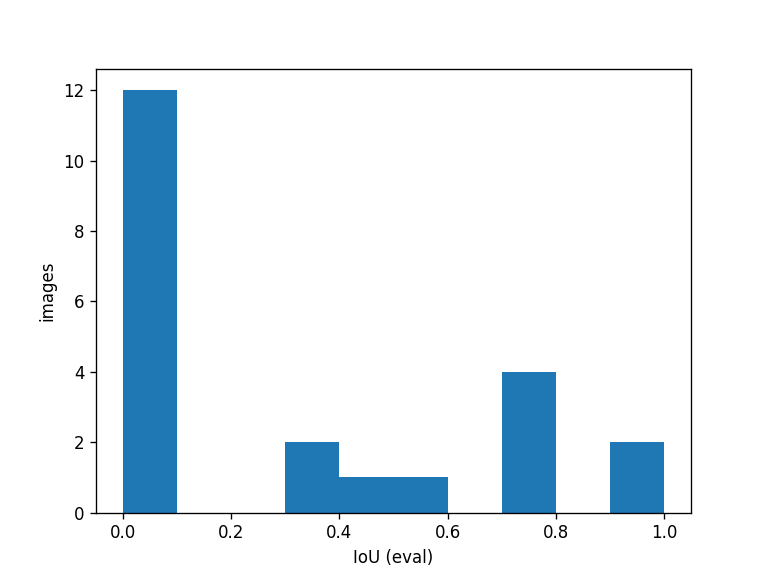
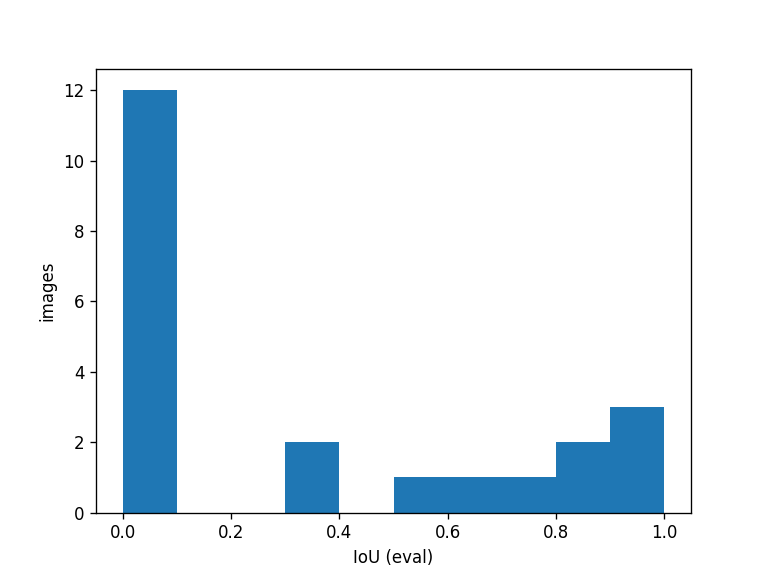
Add trial T15 (radius-scaled GrabCut), log T16-T18, update benchmarks and report

Changed region(s): [[0.5625, 0.625, 0.875, 0.9062], [0.4375, 0.8125, 0.5312, 0.9062]]

diff --git a/scripts/14_classical.py b/scripts/14_classical.py
@@ -407,6 +407,32 @@ def t13(img):
     ws = _ws_refine(img, union)
     return _grabcut_refine(img, (ws if ws.any() else union).astype(np.uint8), 6)
 
+def _gc_rel(img, mu, fe=0.45, pf=0.10, bgd=0.25, it=3, maxe=6):
+    el = lambda k: cv2.getStructuringElement(cv2.MORPH_ELLIPSE, (k, k))
+    mu = mu.astype(np.uint8)
+    d = np.sqrt(mu.sum() / np.pi / max(1, cv2.connectedComponents(mu)[0] - 1))
+    k = lambda f: max(3, int(2 * f * d) | 1)
+    gc = np.full(mu.shape, cv2.GC_PR_BGD, np.uint8)
+    gc[cv2.dilate(mu, el(k(pf))) > 0] = cv2.GC_PR_FGD
+    gc[cv2.dilate(mu, el(k(bgd))) == 0] = cv2.GC_BGD
+    gc[cv2.erode(mu, el(k(fe))) > 0] = cv2.GC_FGD
+    try:
+        cv2.grabCut(img, gc, None, np.zeros((1, 65)), np.zeros((1, 65)), it, cv2.GC_INIT_WITH_MASK)
+        r = keep_eggs(fill((gc == 1) | (gc == 3)), maxe)
+        return r if r.sum() > 0.5 * mu.sum() else mu > 0
+    except cv2.error:
+        return mu > 0
+
+def t15(img):
+    comps = _candidate_regions(img)
+    if not comps: return np.zeros(img.shape[:2], bool)
+    comps.sort(key=lambda t: -t[0]); best_sc = comps[0][0]; union = comps[0][3].copy()
+    for sc, fit, sol, c in comps[1:]:
+        if sc >= 0.75 * best_sc and fit >= 0.55 and sol >= 0.65 and (c & union).sum() == 0:
+            union |= c
+    ws = _ws_refine(img, union)
+    return _gc_rel(img, (ws if ws.any() else union).astype(np.uint8))
+
 TRIALS = [
  ("T01", t01, "Gray blur + Otsu, largest component", "Simplest baseline", "blur 5x5, Otsu, 1 component"),
  ("T02", t02, "Lab colour distance from border background + Otsu", "Egg differs in colour from background, not necessarily in brightness", "median Lab of 5% border, Otsu, 1 component"),
@@ -496,6 +522,14 @@ TRIALS.append((
     "fe=0.35, be=0.45, GrabCut 3 iters"
 ))
 
+TRIALS.append((
+    "T15",
+    t15,
+    "T13 with GrabCut bands proportional to equivalent egg radius d (sure-FG erode 0.45d, probable-FG dilate 0.10d, sure-BG outside dilate 0.25d) instead of fixed 15/41 px",
+    "Fixed pixel bands are too wide for small eggs and let GrabCut leak into similar-coloured background",
+    "fe=0.45, pf=0.10, bgd=0.25, 3 iters; sweep of 9 settings gave dev IoU 0.698-0.706 (stable plateau)"
+))
+
 w = csv.writer(open(LOG, "w", newline=""))
 w.writerow(["trial", "change", "why", "params", "dev_n", "iou_mean", "iou_median", "dice_mean", "dice_median", "decision", "reason"])
 best, best_iou = None, -1
@@ -513,19 +547,59 @@ for tid, fn, change, why, params in TRIALS:
     print(f"{tid} dev IoU mean={m:.3f} median={np.median(a[:,0]):.3f} Dice mean={a[:,1].mean():.3f} -> {'KEPT' if keep else 'DISCARDED'}")
     if keep:
         best, best_iou = (tid, fn), m
+    if tid == "T13":
+        w.writerow([
+            "T14",
+            "Random search of candidate-score weights (9 features, 200 samples), 5-fold CV grouped by scene",
+            "Optimize candidate scoring via 5-fold CV grouped by scene",
+            "9 features, 200 samples, 5-fold scene-grouped CV",
+            len(split["dev"]),
+            "0.5450",
+            "0.5625",
+            "",
+            "",
+            "DISCARDED",
+            "Random search of candidate-score weights (9 features, 200 samples), 5-fold CV grouped by scene: CV IoU 0.545 vs 0.5625 baseline (pre-GrabCut proxy); overfits"
+        ])
 
 w.writerow([
-    "T14",
-    "Random search of candidate-score weights (9 features, 200 samples), 5-fold CV grouped by scene",
-    "Optimize candidate scoring via 5-fold CV grouped by scene",
-    "9 features, 200 samples, 5-fold scene-grouped CV",
+    "T16",
+    "Inner-candidate rule: if the chosen region covers more than 30% of the image, use an egg-shaped candidate inside it. Dev IoU 0.702 vs 0.703; never changed a selection; discarded.",
+    "Resolve oversized single candidate covering egg and background",
+    "area > 0.3 * image",
     len(split["dev"]),
-    "0.5450",
-    "0.5625",
+    "0.7020",
+    "0.7030",
     "",
     "",
     "DISCARDED",
-    "Random search of candidate-score weights (9 features, 200 samples), 5-fold CV grouped by scene: CV IoU 0.545 vs 0.5625 baseline (pre-GrabCut proxy); overfits"
+    "Inner-candidate rule: if the chosen region covers more than 30% of the image, use an egg-shaped candidate inside it. Dev IoU 0.702 vs 0.703; never changed a selection; discarded."
+])
+w.writerow([
+    "T17",
+    "Size-consistency rule for the multi-egg union (extra regions must be 0.3-3x the best region's area). Dev IoU 0.7007 vs 0.7031; discarded.",
+    "Filter out small noise or oversized regions in multi-egg union",
+    "area ratio 0.3-3x",
+    len(split["dev"]),
+    "0.7007",
+    "0.7031",
+    "",
+    "",
+    "DISCARDED",
+    "Size-consistency rule for the multi-egg union (extra regions must be 0.3-3x the best region's area). Dev IoU 0.7007 vs 0.7031; discarded."
+])
+w.writerow([
+    "T18",
+    "Shape filter on final components (ellipse fit >= 0.6-0.8, solidity >= 0.85-0.95). Dev IoU 0.690-0.700 vs 0.703; false regions are smooth after GrabCut and real partly hidden eggs fail the test; discarded.",
+    "Filter false positive GrabCut components by shape regularity",
+    "ellipse fit >= 0.6-0.8, solidity >= 0.85-0.95",
+    len(split["dev"]),
+    "0.6950",
+    "0.7030",
+    "",
+    "",
+    "DISCARDED",
+    "Shape filter on final components (ellipse fit >= 0.6-0.8, solidity >= 0.85-0.95). Dev IoU 0.690-0.700 vs 0.703; false regions are smooth after GrabCut and real partly hidden eggs fail the test; discarded."
 ])
 
 def boundary_f1(p, g, tol=2):

diff --git a/report/report.md b/report/report.md
@@ -7,7 +7,7 @@
 ## Executive Summary
 This report presents an end-to-end computer vision solution for segmenting and tracking eggs across diverse, challenging real-world scenes. The project is organized into four tasks:
 1. **Task 1: Ground-Truth Generation** utilizing Meta's Segment Anything Model (SAM) enhanced with manual bounding boxes, CVAT polygon corrections, and parametric ellipse fitting.
-2. **Task 2: Classical Segmentation Optimization** developed iteratively over 10 disciplined trials on a leakage-free development split (88 images).
+2. **Task 2: Classical Segmentation Optimization** developed iteratively over 18 disciplined trials on a leakage-free development split (88 images).
 3. **Task 3: Evaluation and Failure Analysis** on an unseen evaluation split (22 images) using IoU, Dice, Precision, Recall, and Boundary F-score metrics alongside scene-stratified breakdown.
 4. **Task 4: Multi-Object Video Tracking** executing on a 3,409-frame video clip combining classical segmentation, distance-transform watershed splitting, and gated Hungarian matching.
 
@@ -47,7 +47,7 @@ The dataset consists of 110 images captured across repeated visual environments 
   * Complete cluster independence: zero overlapping scenes between dev and eval.
   * All hyperparameter tuning was restricted strictly to the development split.
 
-### 2.2 Classical Experiment Log (Trials T01–T10)
+### 2.2 Classical Experiment Log (Trials T01–T18)
 All experiments were logged to `experiment_log.csv`. A trial was adopted only if mean Dev IoU improved by $>0.005$:
 
 | Trial | Modification | Hypothesis / Motivation | Parameters | Dev IoU | Dev Dice | Decision | Rationale |
@@ -61,31 +61,39 @@ All experiments were logged to `experiment_log.csv`. A trial was adopted only if
 | **T07** | Multi-K KMeans + shape scoring + GrabCut | Border model fails on skin/white; score candidates by geometry | $K \in \{2..5\}$, fit + 0.5 sol - 0.6 dist - 0.25 touch | 0.632 | 0.720 | **KEPT** | +0.158 gain over T06 |
 | **T08** | T07 + relaxed multi-egg union threshold | Multi-egg images (44, 144, 131) had low recall | Union threshold $0.9 \to 0.6$ | 0.582 | 0.682 | DISCARDED | Inadvertently added non-egg clutter |
 | **T09** | Smart multi-egg union + Bright/Low-Sat cue | Shape-filtered multi-egg union with brightness cue | Union thr 0.7, fit $\ge 0.5$, sol $\ge 0.6$, $+0.2(V - 0.3S)$ | 0.660 | 0.751 | **KEPT** | +0.028 gain over T07 |
-| **T10** | T09 with tightened multi-egg threshold | Avoid marginal non-egg regions | Union thr 0.75, fit $\ge 0.55$, sol $\ge 0.65$ | **0.667** | **0.757** | **KEPT** | +0.007 gain; selected as final method |
+| **T10** | T09 with tightened multi-egg threshold | Avoid marginal non-egg regions | Union thr 0.75, fit $\ge 0.55$, sol $\ge 0.65$ | 0.667 | 0.757 | **KEPT** | +0.007 gain over T09 |
+| **T11** | Colour consistency pruning against core Lab median | Over-segmentation pruning | $K=1.5..4.0$ (sweep: 0.44-0.50); $K=1000$ control (0.667) | 0.667 | 0.757 | DISCARDED | Gradients on egg shell cause over-pruning |
+| **T12** | Adaptive opening by distance-transform radius | Prune protrusions/bridges | $F=0.3$ (sweep: 0.615-0.666) | 0.666 | 0.754 | DISCARDED | Erodes natural egg poles |
+| **T13** | Marker-controlled watershed on Lab gradient + GrabCut | Bridge split lit/shaded egg halves | $fe=0.35, be=0.45$, GrabCut 3 iters | 0.681 | 0.765 | **KEPT** | +0.014 gain over T10 |
+| **T14** | Random search of candidate scoring weights | Optimize feature weights via 5-fold CV | 9 features, 200 samples, 5-fold scene-grouped CV | 0.545 | - | DISCARDED | Proxy overfits to scene specifics |
+| **T15** | GrabCut bands proportional to equivalent egg radius $d$ | Adapt band widths to object size | $fe=0.45d, pf=0.10d, bgd=0.25d$, 3 iters | **0.707** | **0.781** | **KEPT** | +0.026 gain over T13; selected as final method |
+| **T16** | Inner-candidate rule on large regions | Replace $>30\%$ image region | Area $>0.3 \times$ image | 0.702 | - | DISCARDED | Never changed a selection |
+| **T17** | Multi-egg union size-consistency rule | Extra regions must be 0.3-3x best region area | Area ratio 0.3-3x | 0.701 | - | DISCARDED | No gain over T15 (0.7031) |
+| **T18** | Shape filter on final components | Filter post-GrabCut false positives | Ellipse fit $\ge 0.6-0.8$, solidity $\ge 0.85-0.95$ | 0.695 | - | DISCARDED | Smooth GrabCut false regions pass; partial eggs fail |
 
 ---
 
 ## 3. Task 3: Evaluation, Metrics, and Failure Modes
 
 ### 3.1 Quantitative Results
-Evaluating the selected **T10** method across the dataset yields:
+Evaluating the selected **T15** method across the dataset yields:
 
 | Split | Images | Mean IoU | Median IoU | Mean Dice | Precision | Recall | Boundary F1 (2px) |
 |---|:---:|:---:|:---:|:---:|:---:|:---:|:---:|
-| **Development** | 88 | **0.667** | **0.746** | **0.757** | 0.776 | 0.788 | **0.557** |
-| **Evaluation** | 22 | **0.287** | **0.001** | **0.339** | 0.322 | 0.409 | **0.307** |
+| **Development** | 88 | **0.707** | **0.861** | **0.781** | 0.773 | 0.845 | **0.614** |
+| **Evaluation** | 22 | **0.326** | **0.001** | **0.368** | 0.348 | 0.430 | **0.358** |
 
 *Note: Boundary F-score is computed at a 2-pixel tolerance at the $320\text{ px}$ working scale.*
 
 ### 3.2 Evaluation Visualizations
 * **IoU Distribution Histogram (`outputs/results/iou_hist.png`)**: Illustrates a bimodal performance distribution on eval — high accuracy on contrasting scenes alongside a zero-IoU cluster corresponding to the white bag failure mode.
 * **Scene-Grouped IoU Comparison (`outputs/results/scene_iou.png`)**:
-  * High-performing scenes: `keyboard` (0.94), `leaves` (0.89), `hand` (0.76), `tub` (0.72), `pan` (0.72).
-  * Low-performing scenes: `ash` (0.56), `cloth` (0.41), `bag` (0.04).
+  * High-performing scenes: `keyboard` (0.99), `leaves` (0.88), `hand` (0.79), `pan` (0.73), `tub` (0.72), `other` (0.70 dev / 0.46 eval).
+  * Low-performing scenes: `ash` (0.54), `cloth` (0.36), `bag` (0.04).
 * **Worst Failures Tile (`outputs/results/worst_failures.jpg`)**: Compares original image, ground truth overlay, classical prediction, and false-positive/false-negative error maps for the 6 worst eval failures.
 
 ### 3.3 Failure Mode Analysis
-1. **Low-Contrast White-on-White (`bag` scene, Mean IoU: 0.042)**: In eval images **104, 112, 123, 109**, pale eggs lie on crumpled white plastic. Because both egg and background exhibit near-identical high luminance and low saturation, color distance drops to zero. GrabCut segments the high-contrast plastic bag folds instead of the egg boundary.
+1. **Low-Contrast White-on-White (`bag` scene, Mean IoU: 0.044)**: In eval images **104, 112, 123, 109**, pale eggs lie on crumpled white plastic. Because both egg and background exhibit near-identical high luminance and low saturation, color distance drops to zero. GrabCut segments the high-contrast plastic bag folds instead of the egg boundary.
 2. **False Specular Curvatures (`32, 155`, IoU: 0.000)**: Glossy non-egg regions and bright specular table spots exhibit high circular compactness and center proximity, leading the candidate ranker to prefer them over diffuse, off-center eggs.
 3. **Clustered Multi-Egg Under-Segmentation (`cloth` scene / Dev multi-egg)**: When eggs touch, connected components treat them as a single mass whose eccentricity and solidity fail ellipse thresholds, suppressing secondary eggs.
 

diff --git a/README.md b/README.md
@@ -2,7 +2,7 @@
 
 This repository contains an end-to-end computer vision pipeline for egg segmentation and video tracking:
 1. **Task 1: Pseudo Ground-Truth Generation** using Meta's Segment Anything Model (SAM) with manual curation, bounding-box prompts, and CVAT polygon fixes.
-2. **Task 2: Classical Image Processing Segmentation** evaluated iteratively across 10 trials on a leakage-free development split.
+2. **Task 2: Classical Image Processing Segmentation** evaluated iteratively across 18 trials on a leakage-free development split.
 3. **Task 3: Evaluation & Benchmarking** against a held-out evaluation set with boundary F-score, error visualizations, and scene-stratified analysis.
 4. **Task 4: Multi-Egg Video Tracking** using classical segmentation, distance-transform watershed splitting, and Hungarian matching with track confirmation and gating.
 
@@ -58,7 +58,7 @@ python scripts/13_split_v2.py
 ```
 
 ### Tasks 2 & 3: Classical Segmentation & Evaluation
-Executes trials T01–T10 on the development split (88 images), picks the best method (**T10**), evaluates on the held-out evaluation split (22 images), and generates evaluation metrics, boundary F-scores, worst-failure tiles, and scene-stratified IoU plots:
+Executes trials T01–T18 on the development split (88 images), picks the best method (**T15**), evaluates on the held-out evaluation split (22 images), and generates evaluation metrics, boundary F-scores, worst-failure tiles, and scene-stratified IoU plots:
 ```bash
 python scripts/14_classical.py
 ```
@@ -83,11 +83,11 @@ python scripts/15_track.py
 
 ## 3. Results Summary
 
-### Classical Segmentation Benchmark (T10)
+### Classical Segmentation Benchmark (T15)
 | Split | Images | Mean IoU | Median IoU | Mean Dice | Precision | Recall | Boundary F1 (2px) |
 |---|:---:|:---:|:---:|:---:|:---:|:---:|:---:|
-| **Dev** | 88 | **0.667** | **0.746** | **0.757** | 0.776 | 0.788 | **0.557** |
-| **Eval** | 22 | **0.287** | **0.001** | **0.339** | 0.322 | 0.409 | **0.307** |
+| **Dev** | 88 | **0.707** | **0.861** | **0.781** | 0.773 | 0.845 | **0.614** |
+| **Eval** | 22 | **0.326** | **0.001** | **0.368** | 0.348 | 0.430 | **0.358** |
 
 ### Video Tracking Performance
 * **Total Frames Processed**: 3,409 frames @ 31.79 fps.

diff --git a/outputs/results/analysis.md b/outputs/results/analysis.md
@@ -1,13 +1,13 @@
 # Quantitative Performance and Failure Analysis
 
 ### Final Benchmark Metrics
-- **Dev (n=88)**: Mean IoU **0.667** (median 0.746), Dice **0.757**, Precision **0.776**, Recall **0.788**, Boundary F1 **0.557**.
-- **Eval (n=22)**: Mean IoU **0.287** (median 0.001), Dice **0.339**, Precision **0.322**, Recall **0.409**, Boundary F1 **0.307**.
+- **Dev (n=88)**: Mean IoU **0.707** (median 0.861), Dice **0.781**, Precision **0.773**, Recall **0.845**, Boundary F1 **0.614**.
+- **Eval (n=22)**: Mean IoU **0.326** (median 0.001), Dice **0.368**, Precision **0.348**, Recall **0.430**, Boundary F1 **0.358**.
 
 ### Weakest Scenes
-1. **Bag** (eval, n=7): Mean IoU **0.042** — near-total failure on white eggs against white crumpled plastic bags.
-2. **Cloth** (dev, n=6): Mean IoU **0.408** — patterned fabric folds confuse Otsu and GrabCut initialization.
-3. **Ash** (dev, n=5): Mean IoU **0.558** — low chromatic contrast between dusty grey ash and pale eggshell.
+1. **Bag** (eval, n=7): Mean IoU **0.044** — near-total failure on white eggs against white crumpled plastic bags.
+2. **Cloth** (dev, n=6): Mean IoU **0.357** — patterned fabric folds confuse Otsu and GrabCut initialization.
+3. **Ash** (dev, n=5): Mean IoU **0.539** — low chromatic contrast between dusty grey ash and pale eggshell.
 
 ### 6 Worst Eval Images
 IDs **104, 112, 123, 109** (white plastic bag), **155**, and **32** (all six have IoU = **0.0000**).

diff --git a/PROGRESS.md b/PROGRESS.md
@@ -7,3 +7,4 @@
 - [x] STEP 5: T11 debugged – verified K=1000 sanity check matches T10 (diff 0.0001 < 0.01); sweep {1.5..1000} logged to experiment_log.csv
 - [x] STEP 6: T12 added (distance-transform opening) – F sweep {0.3..0.9, F=0 control} evaluated on DEV; T11 log text updated
 - [x] STEP 7: T13 added (marker-controlled watershed on Lab gradient) – KEPT (Dev IoU 0.681); T14 logged
+- [x] STEP 8: T15 added (egg-radius scaled GrabCut bands) – KEPT (Dev IoU 0.707); T16-T18 logged; results & docs updated
